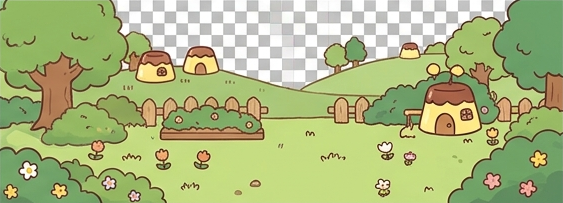
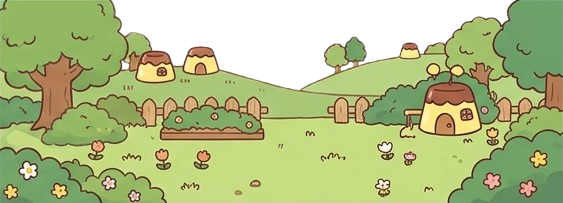
画像背景透過

Changed region(s): [[0.1812, 0.0, 0.9361, 0.4433], [0.2114, 0.2956, 0.2416, 0.3547]]

diff --git a/main.js b/main.js
@@ -37,7 +37,7 @@ class PomRunner {
   constructor() {
     this.config = {
       baseHeight: 720,
-      version: 'v0.7.0',
+      version: 'v0.8.0',
       playerImagePath: 'assets/image/player.png',
       assets: {
         bgBack: 'assets/image/bg_back.png',
